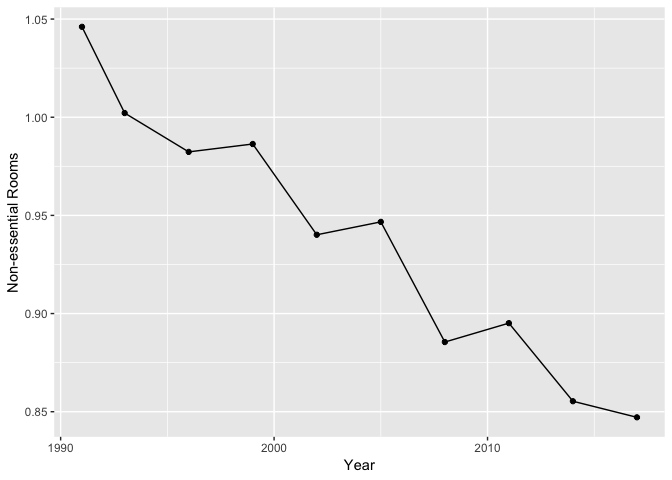
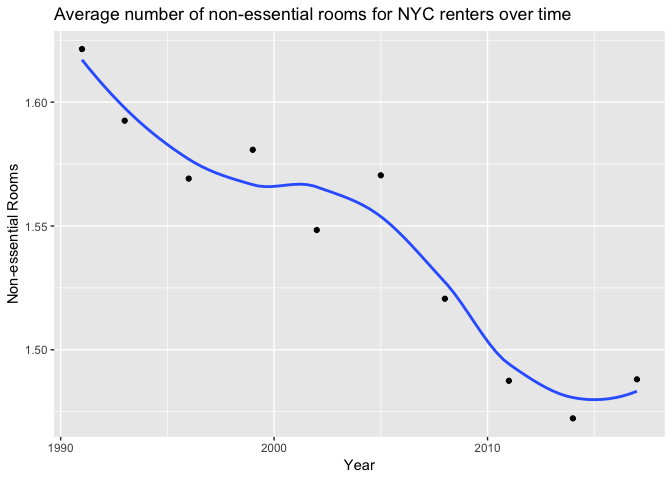
solved extra rooms variable

diff --git a/cav-comp-analysis.md b/cav-comp-analysis.md
@@ -1,6 +1,6 @@
 NYCHVS Data Analysis
 ================
-Analyzing New York City housing data over the past three decades for the *UVA Cavalytics Spring Data Competition* and annual American Statistical Association's (ASA) <a href="https://www1.nyc.gov/site/hpd/about/nychvs-asa-data-challenge-expo.page?fbclid=IwAR0fN8TUt2UfJc3qzglI-MtMoG0WW_mky-b5Njv5yd2MdsO4Z4lp0WKiOxo#"><target = "blank">Data Challenge Expo</a>
+Analyzing New York City housing data over the past three decades for the *UVA Cavalytics Spring Data Competition* and annual *American Statistical Association's* (ASA) <a href="https://www1.nyc.gov/site/hpd/about/nychvs-asa-data-challenge-expo.page?fbclid=IwAR0fN8TUt2UfJc3qzglI-MtMoG0WW_mky-b5Njv5yd2MdsO4Z4lp0WKiOxo#"><target = "blank">Data Challenge Expo</a>
 
 -   [Research Question](#research-question)
 -   [Hypothesis](#hypothesis)
@@ -192,43 +192,90 @@ merged_data[merged_data == 9998] <- NA
 Major Findings
 --------------
 
--   **Over time, renters have sacrificed non-essential rooms**
+#### **1. Over time, renters have sacrificed non-essential rooms**
 
 Associated Code:
 
-**NOTE** The variable `extra_rooms` is just the difference between the number of rooms in the house and the number of bedrooms in the house. They are the non-essential rooms (that residents are not sleeping in).
+**NOTE** The variable `extra_rooms` is just the difference between the number of rooms in the house and the number of bedrooms in the house. They are the non-essential rooms in that the residents are not sleeping in them.
 
 ``` r
-renters <- merged_data %>% 
-  filter(mortgage == 9) %>% 
+merged_data1 <- merged_data %>% 
+  filter(num_of_persons <= num_of_bedrooms) %>% 
+  mutate(extra_rooms = num_of_rooms - num_of_persons)
+
+merged_data2 <- merged_data %>% 
+  filter(num_of_persons > num_of_bedrooms) %>% 
   mutate(extra_rooms = num_of_rooms - num_of_bedrooms)
+
+merged_data <- full_join(merged_data1, merged_data2)
+
+renters <- merged_data %>% 
+  filter(mortgage == 9)
 
 extra_room_by_year <- renters %>% 
   group_by(data_year) %>% 
   summarise(mean_extra_room = mean(extra_rooms, na.rm = TRUE))
 
-extra_room_by_year
+extra_room_by_year %>% as.data.frame()
 ```
 
-    ## # A tibble: 10 x 2
     ##    data_year mean_extra_room
-    ##        <dbl>           <dbl>
-    ##  1      1991           1.05 
-    ##  2      1993           1.00 
-    ##  3      1996           0.982
-    ##  4      1999           0.986
-    ##  5      2002           0.940
-    ##  6      2005           0.947
-    ##  7      2008           0.885
-    ##  8      2011           0.895
-    ##  9      2014           0.855
-    ## 10      2017           0.847
+    ## 1       1991        1.621444
+    ## 2       1993        1.592507
+    ## 3       1996        1.569126
+    ## 4       1999        1.580761
+    ## 5       2002        1.548360
+    ## 6       2005        1.570451
+    ## 7       2008        1.520610
+    ## 8       2011        1.487477
+    ## 9       2014        1.472299
+    ## 10      2017        1.488071
 
 ``` r
 ggplot(extra_room_by_year, aes(data_year, mean_extra_room)) + 
+  labs(x = "Year", y = "Non-essential Rooms", title = "Average number of non-essential rooms for NYC renters over time") +
   geom_point() + 
-  labs(x = "Year", y = "Non-essential Rooms") +
-  geom_line()
+  geom_smooth(se = FALSE)
 ```
 
 ![](cav-comp-analysis_files/figure-markdown_github/unnamed-chunk-2-1.png)
+
+This results from the fact that, over time, the average number of rooms per person has generally decreased while the average number of bedrooms per person has generally increased.
+
+``` r
+rooms_per_person <- renters %>% 
+  mutate(room_per_person = num_of_rooms / num_of_persons, 
+         bedroom_per_person = num_of_bedrooms / num_of_persons) %>% 
+  group_by(data_year) %>% 
+  summarise(mean_room_per_person = mean(room_per_person, na.rm = TRUE),
+            mean_bedroom_per_person = mean(bedroom_per_person, na.rm = TRUE))
+
+rooms_per_person %>% as.data.frame()
+```
+
+    ##    data_year mean_room_per_person mean_bedroom_per_person
+    ## 1       1991             1.960547                1.384173
+    ## 2       1993             1.968109                1.405143
+    ## 3       1996             1.947577                1.401505
+    ## 4       1999             1.946067                1.401273
+    ## 5       2002             1.930214                1.411141
+    ## 6       2005             1.957164                1.428023
+    ## 7       2008             1.947887                1.444603
+    ## 8       2011             1.877712                1.389418
+    ## 9       2014             1.890422                1.410715
+    ## 10      2017             1.899409                1.429703
+
+This decrease in non-essential rooms for NYC renters is not exactly consistent among all boroughs. The decrease is greatest in Staten Island and Queens.
+
+``` r
+extra_room_by_year.bor <- renters %>% 
+  group_by(data_year, borough) %>% 
+  summarise(mean_extra_room = mean(extra_rooms, na.rm = TRUE))
+
+ggplot(extra_room_by_year.bor, aes(data_year, mean_extra_room, color = borough)) + 
+  labs(x = "Year", y = "Non-essential Rooms", title = "Average number of non-essential rooms for NYC renters over time (by borough)") +
+  geom_point() + 
+  geom_smooth(se = FALSE)
+```
+
+![](cav-comp-analysis_files/figure-markdown_github/unnamed-chunk-4-1.png)
